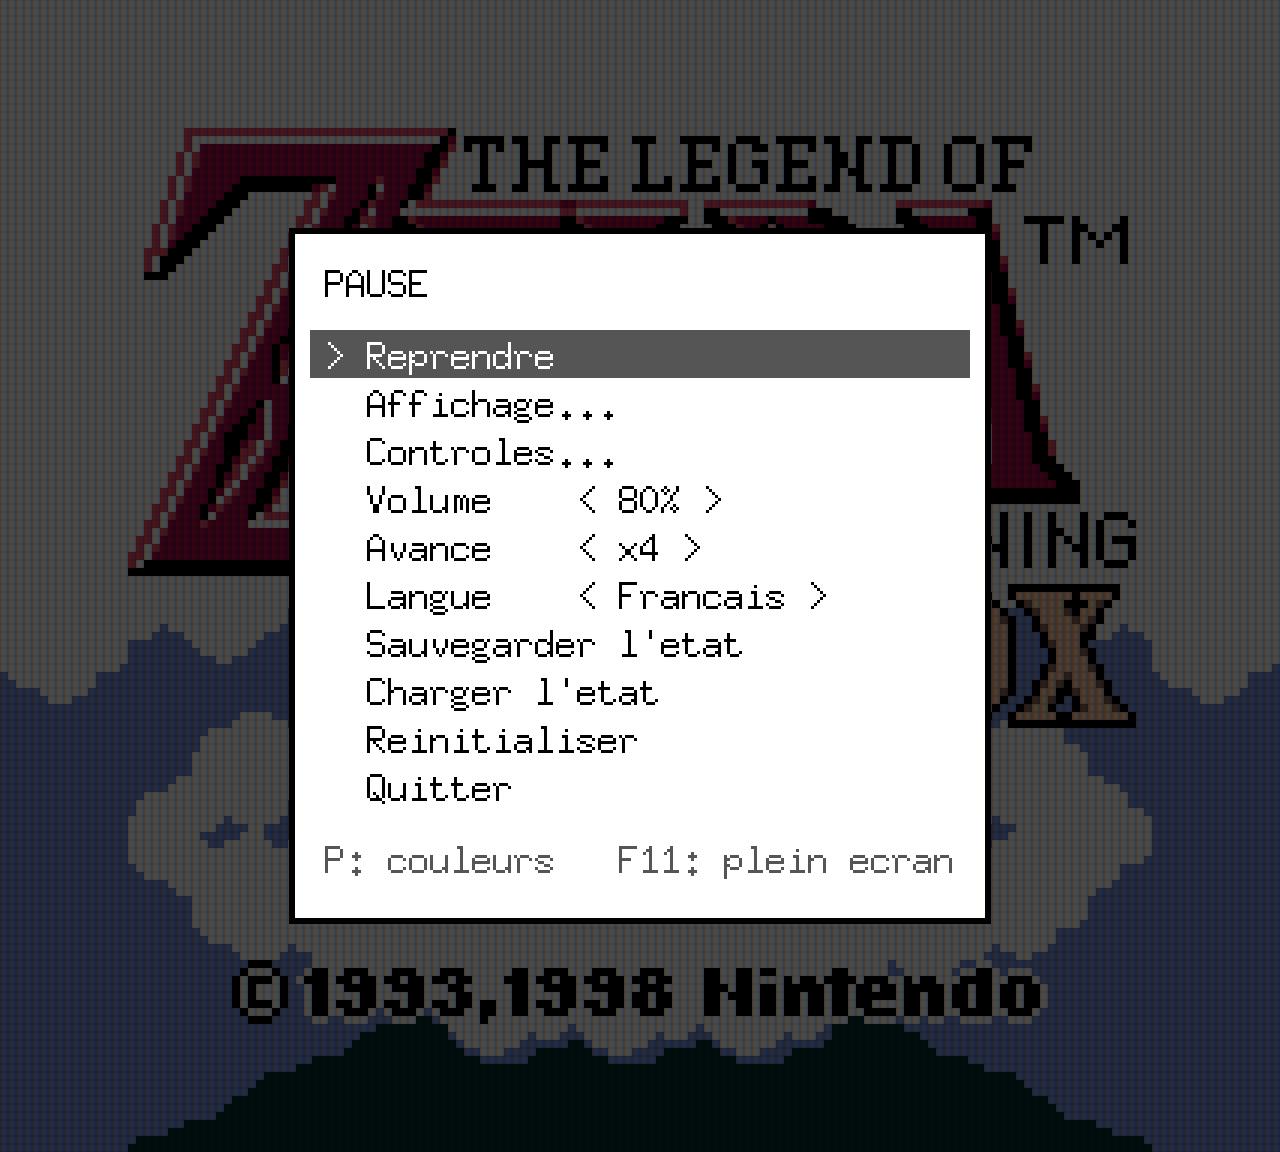
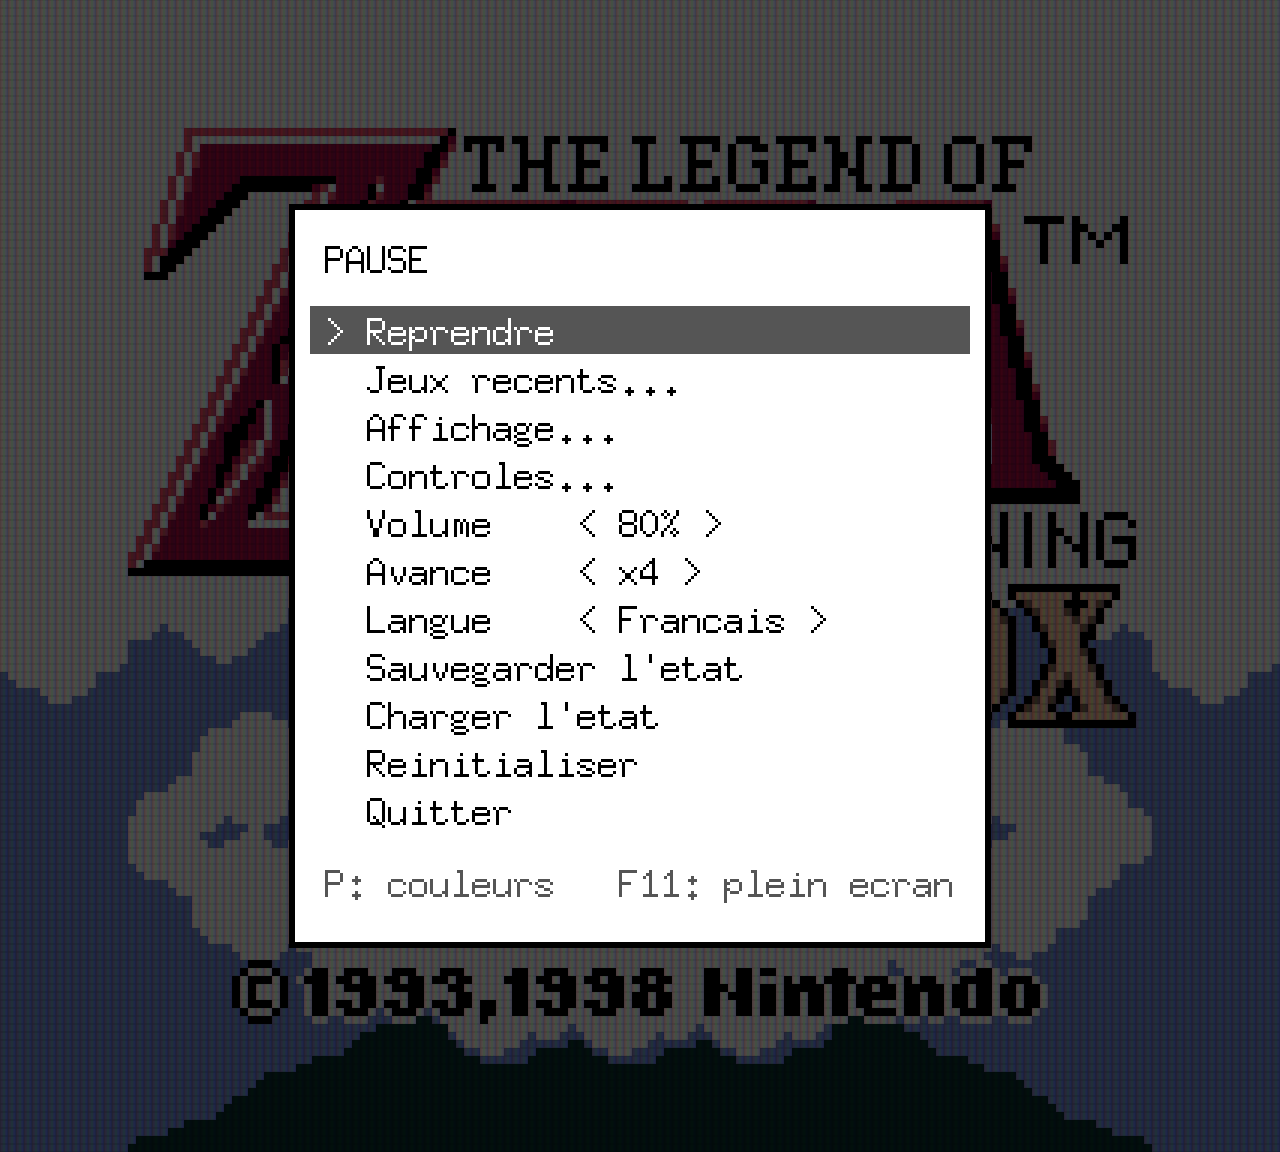
Show the drop screen on the site, retake the Pause menu captures, and capture both in the skill (#53)
* Show the drop screen on the site, and a Controls heading

The quick start of the site now shows the drop screen of gbe launched
without a ROM, with five recent games, captured by gbe itself at the x8
scale like the other screenshots. It is as wide as a column of the
Screenshots section, and centered. A "Contrôles" heading now sets the
keys table apart from the quick start.

* Retake the Pause menu captures, and capture the drop screen in the skill

The Pause menu captures of the site predate the Recent games entry: they
are retaken with the current menu, the entry enabled as for any player
who has played before.

The site-captures skill now also takes the drop screen capture, as done
for the quick start: capture.sh runs the harness with -drop, which opens
gbe without a ROM (ui.CaptureDrop), its recent games being Link's
Awakening DX, Super Mario Land, Tetris DX, Wario Land 3 and Donkey Kong
Country, named by their header titles. SKILL.md lists the seven captures
and where the site shows them, the extra ROMs, what to check, and the
template sizes to update with the scale.

---------

Changed region(s): [[0.2188, 0.1562, 0.7812, 0.7188], [0.2188, 0.7188, 0.7812, 0.8438]]

diff --git a/site/style.css b/site/style.css
@@ -208,6 +208,12 @@ nav a:hover { color: var(--accent); }
 .shots img { display: block; width: 100%; height: auto; border: var(--px) solid var(--line); }
 .shots figcaption { font-size: 13px; color: var(--muted); margin-top: 8px; }
 
+/* Drop screen, in the quick start */
+/* The width of a column of .shots (3 columns, 24px apart), centered. */
+.drop-shot { width: calc((100% - 48px) / 3); margin: 0 auto 24px; }
+.drop-shot img { display: block; width: 100%; height: auto; border: var(--px) solid var(--line); }
+.drop-shot figcaption { font-size: 13px; color: var(--muted); margin-top: 8px; }
+
 /* Downloads */
 .downloads { grid-template-columns: repeat(3, 1fr); }
 .download ul { list-style: none; margin: 0 0 16px; padding: 0; display: grid; gap: 12px; }
@@ -269,6 +275,7 @@ th { font-family: var(--pixel); font-size: 10px; font-weight: 400; border-bottom
   nav { gap: 12px; }
   nav a { font-size: 13px; }
   .features, .shots, .downloads, .lcd-shots { grid-template-columns: 1fr; }
+  .drop-shot { width: 100%; }
   .palettes { grid-template-columns: repeat(2, 1fr); }
   .bezel { padding: 12px 14px 16px; }
   .console-color { margin-top: 24px; }

diff --git a/.claude/skills/site-captures/harness/capture.go b/.claude/skills/site-captures/harness/capture.go
@@ -7,11 +7,13 @@ package ui
 import (
 	"image/png"
 	"os"
+	"path/filepath"
 	"time"
 
 	"github.com/hajimehoshi/ebiten/v2"
 
 	"github.com/ldechoux/gbe/internal/gb"
+	"github.com/ldechoux/gbe/internal/rom"
 )
 
 // CaptureOptions describes one console's captures.
@@ -75,9 +77,57 @@ func Capture(console *gb.GameBoy, opts CaptureOptions) error {
 	cfg.Scale = opts.Scale
 	cfg.Filter = opts.Filter
 	cfg.Language = opts.Language
+	// A game played before: the Recent games entry of the menu is enabled,
+	// as for any player but the very first time.
+	cfg.Recent = []RecentGame{{Path: opts.Dir + "/played.gb", Title: "PLAYED"}}
 	g := &Game{gb: console, cfg: cfg, cfgPath: opts.Dir + "/config.json", title: "capture", shotDir: opts.Dir,
 		lcd: ebiten.NewImage(gb.ScreenWidth, gb.ScreenHeight), stream: &audioStream{},
 		ignoredKeys: map[ebiten.Key]bool{}, ignoredPad: map[padButton]bool{}, pads: &ebitenPads{}, started: true}
 	ebiten.SetWindowSize(gb.ScreenWidth*4, gb.ScreenHeight*4)
 	return ebiten.RunGame(&captureGame{Game: g, opts: opts})
+}
+
+// dropCapture saves the drop screen, shown when gbe runs without a ROM.
+type dropCapture struct {
+	*Game
+	opts CaptureOptions
+}
+
+func (d *dropCapture) Update() error {
+	f, err := os.Create(d.opts.Dir + "/drop_screen.png")
+	if err != nil {
+		return err
+	}
+	defer f.Close()
+	if err := png.Encode(f, d.renderFrame(d.cfg.Scale)); err != nil {
+		return err
+	}
+	return ebiten.Termination
+}
+
+// CaptureDrop saves drop_screen.png in opts.Dir: the drop screen, its recent
+// games being roms (the first one selected), named by their header title
+// as gbe shows them. The palette is the default one; there is no filter
+// without a game.
+func CaptureDrop(roms []string, opts CaptureOptions) error {
+	cfg := DefaultConfig()
+	cfg.Scale = opts.Scale
+	cfg.Language = opts.Language
+	for _, path := range roms {
+		game, err := rom.Open(path, rom.Options{BootROM: "none", Fresh: true})
+		if err != nil {
+			return err
+		}
+		abs, err := filepath.Abs(path)
+		if err != nil {
+			return err
+		}
+		cfg.Recent = append(cfg.Recent, RecentGame{Path: abs, Title: game.Title})
+	}
+	g := &Game{cfg: cfg, cfgPath: opts.Dir + "/config.json", shotDir: opts.Dir,
+		lcd: ebiten.NewImage(gb.ScreenWidth, gb.ScreenHeight), lcdPrev: ebiten.NewImage(gb.ScreenWidth, gb.ScreenHeight),
+		stream: &audioStream{}, ignoredKeys: map[ebiten.Key]bool{}, ignoredPad: map[padButton]bool{},
+		pads: &ebitenPads{}, monitors: &ebitenMonitors{}}
+	ebiten.SetWindowSize(gb.ScreenWidth*4, gb.ScreenHeight*4)
+	return ebiten.RunGame(&dropCapture{Game: g, opts: opts})
 }

diff --git a/.claude/skills/site-captures/harness/main.go b/.claude/skills/site-captures/harness/main.go
@@ -14,6 +14,7 @@ import (
 
 func main() {
 	romPath := flag.String("rom", "", "ROM to run")
+	drop := flag.Bool("drop", false, "capture the drop screen instead, the ROMs given as arguments listed as recent games")
 	model := flag.String("model", "gb", "gb or gbc")
 	var opts ui.CaptureOptions
 	flag.StringVar(&opts.Dir, "out", "", "output directory")
@@ -24,6 +25,12 @@ func main() {
 	flag.StringVar(&opts.Language, "lang", "fr", "user interface language")
 	flag.Parse()
 
+	if *drop {
+		if err := ui.CaptureDrop(flag.Args(), opts); err != nil {
+			log.Fatal(err)
+		}
+		return
+	}
 	rom, err := os.ReadFile(*romPath)
 	if err != nil {
 		log.Fatal(err)

diff --git a/.claude/skills/site-captures/SKILL.md b/.claude/skills/site-captures/SKILL.md
@@ -1,29 +1,37 @@
 ---
 name: site-captures
-description: Refait les six captures de la section « Captures » du site du projet (écran titre, menu Pause et écran de reprise, en Game Boy et en Game Boy Color) avec le rendu de capture de gbe, à l'échelle ×8 et avec le filtre LCD, puis prépare l'aperçu du site. À utiliser quand l'utilisateur demande de refaire, mettre à jour ou régénérer les captures du site (screenshots/gb, screenshots/gbc), par exemple après un changement du menu, d'un filtre ou d'une palette.
+description: Refait les captures du site du projet avec le rendu de capture de gbe, à l'échelle ×8 — les six de la section « Captures » (écran titre, menu Pause et écran de reprise, en Game Boy et en Game Boy Color, filtre LCD) et l'écran de dépôt des ROMs du « Démarrage rapide » — puis prépare l'aperçu du site. À utiliser quand l'utilisateur demande de refaire, mettre à jour ou régénérer les captures du site (screenshots/gb, screenshots/gbc), par exemple après un changement du menu, d'un filtre ou d'une palette.
 ---
 
 # Refaire les captures du site
 
-Les captures de la section « Captures » du site (`site/index.html.tmpl`, `#captures`) sont
-six images de `screenshots/` :
+Le site (`site/index.html.tmpl`) montre sept captures de `screenshots/` :
 
-| Fichier | Scène |
-|---|---|
-| `screenshots/{gb,gbc}/game_title.webp` | L'écran titre du jeu |
-| `screenshots/{gb,gbc}/menu.webp` | Le menu Pause (en français, curseur sur Reprendre) par-dessus l'écran titre |
-| `screenshots/{gb,gbc}/save_state_resume.webp` | L'écran de reprise de partie, au lancement, sur l'écran encore vide |
+| Fichier | Scène | Section du site |
+|---|---|---|
+| `screenshots/{gb,gbc}/game_title.webp` | L'écran titre du jeu | Captures (`#captures`) |
+| `screenshots/{gb,gbc}/menu.webp` | Le menu Pause (en français, curseur sur Reprendre) par-dessus l'écran titre | Captures |
+| `screenshots/{gb,gbc}/save_state_resume.webp` | L'écran de reprise de partie, au lancement, sur l'écran encore vide | Captures |
+| `screenshots/gb/drop_screen.webp` | L'écran de dépôt des ROMs, affiché quand gbe est lancé sans ROM, avec 5 jeux récents | Télécharger, « Démarrage rapide » (`figure.drop-shot`) |
 
 Les jeux sont Super Mario Land (Game Boy, palette DMG vert) et Link's Awakening DX (Game Boy
 Color, couleurs corrigées). Les réglages : échelle ×8 (1280×1152), filtre LCD, interface en
 français. Les images sont produites par `Game.renderFrame`, la fonction du raccourci de
 capture : image filtrée, et menu par-dessus quand il est ouvert.
 
+L'écran de dépôt n'a pas de jeu, donc pas de filtre : il est dans la palette par défaut
+(DMG vert). Ses jeux récents sont, dans l'ordre, Link's Awakening DX (sélectionné), Super
+Mario Land, Tetris DX, Wario Land 3 et Donkey Kong Country. Leurs noms sont les titres lus
+dans l'en-tête des ROMs, comme gbe les affiche : ZELDA, SUPER MARIOLAND, TETRIS DX,
+WARIOLAND3, DK COUNTRY. Éviter Pokémon Pinball, dont l'en-tête donne « POKEMONPINBVPHP »
+(titre suivi du code fabricant), tant que la lecture du titre ne le corrige pas.
+
 ## Prérequis
 
-- Les ROMs, absentes de git : `roms/Super_Mario_Land_World_Rev1.gb` et
-  `roms/Legend_of_Zelda_The_Links_Awakening_DX.gbc`. Si elles manquent, demander à
-  l'utilisateur de les copier ; ne pas les chercher ailleurs.
+- Les ROMs, absentes de git : `roms/Super_Mario_Land_World_Rev1.gb`,
+  `roms/Legend_of_Zelda_The_Links_Awakening_DX.gbc`, et pour les jeux récents de l'écran
+  de dépôt `roms/Tetris_DX.zip`, `roms/Wario_Land_3.zip` et `roms/Donkey_Kong_Country.zip`.
+  Si elles manquent, demander à l'utilisateur de les copier ; ne pas les chercher ailleurs.
 - `go`, `cwebp` et `magick` (ImageMagick), plus Google Chrome pour l'aperçu du site.
 - Une machine avec écran : le harnais ouvre une fenêtre Ebitengine quelques secondes.
 
@@ -51,15 +59,20 @@ git checkout -b feature/site-captures   # ou un nom plus précis
    - l'écran titre : image 200 pour Super Mario Land ; image 900 pour Link's Awakening
      DX, après un appui sur Start à l'image 500 pour passer l'intro ;
    - le menu Pause, ouvert ensuite sur l'écran titre ;
-3. retire le harnais, même en cas d'erreur, puis convertit les PNG en WebP sans perte
+3. lance un `Game` sans ROM (`-drop`, `ui.CaptureDrop`) et enregistre
+   `gb/drop_screen.png`. Les cinq ROMs de la liste `recent` du script sont ouvertes avec
+   `rom.Open` pour lire leur titre, et deviennent les jeux récents, le premier sélectionné ;
+4. retire le harnais, même en cas d'erreur, puis convertit les PNG en WebP sans perte
    (`cwebp -lossless -z 9`) et produit `montage.png`.
 
 `SCALE`, `FILTER` et `UI_LANG` changent l'échelle, le filtre et la langue si l'utilisateur
-le demande ; par défaut ×8, `lcd` et `fr`.
+le demande ; par défaut ×8, `lcd` et `fr`. L'écran de dépôt suit l'échelle et la langue ;
+il ignore le filtre.
 
 Si le harnais ne compile plus, c'est que les champs de `Game` ou de `menu` ont changé :
 adapter `harness/capture.go`, qui utilise `renderFrame`, `menu.show`, `menu.showStart`,
-`started`, `stateTime`, `frame` et la construction de `Game` faite par `ui.Run`. Mettre
+`started`, `stateTime`, `frame`, `Config.Recent`, `rom.Open` et la construction de `Game`
+faite par `ui.Run`. Mettre
 le skill à jour dans le même commit.
 
 Après le script, `git status` ne doit montrer aucun `zz_capture` restant.
@@ -75,9 +88,12 @@ magick <out>/gbc/menu.png -crop 640x400+320+380 +repage <out>/detail.png
 Contrôler :
 - l'écran titre est affiché, et non l'intro ou un écran noir ;
 - le menu est à jour (les entrées actuelles de `internal/ui/menu.go`) et son texte est
-  net : en ×8, il est dessiné en ×3 ;
+  net : en ×8, il est dessiné en ×3. « Jeux recents... » est actif, et non grisé : le
+  harnais donne au menu un jeu récent, comme pour tout joueur qui a déjà joué ;
 - la grille LCD est visible ;
-- l'écran de reprise affiche « PARTIE EN COURS » et la date du jour.
+- l'écran de reprise affiche « PARTIE EN COURS » et la date du jour ;
+- l'écran de dépôt montre la cartouche, l'invitation « Deposez une ROM Game Boy ici » et
+  les cinq jeux récents, ZELDA sélectionné, sans titre tronqué ni code fabricant.
 
 Si l'écran titre de Link's Awakening DX a bougé, par exemple parce que l'émulation a
 changé, trouver la bonne image avec le mode headless :
@@ -95,11 +111,18 @@ Puis ajuster `-title-at` ou `-start-at` dans `capture.sh`.
 for m in gb gbc; do for f in game_title menu save_state_resume; do
   cp <out>/$m/$f.webp screenshots/$m/$f.webp
 done; done
+cp <out>/gb/drop_screen.webp screenshots/gb/drop_screen.webp
 ```
 
-Si l'échelle n'est plus ×8, mettre à jour dans `site/index.html.tmpl` (`#captures`) les
-attributs `width`/`height` des six `<img>` (160×échelle sur 144×échelle) et la phrase
-sous le titre, qui annonce l'échelle, la taille et le filtre. De même si le filtre change.
+Ne copier que les captures que l'utilisateur veut refaire : par exemple seulement
+`drop_screen.webp` après un changement de l'écran de dépôt.
+
+Si l'échelle n'est plus ×8, mettre à jour dans `site/index.html.tmpl` les attributs
+`width`/`height` des sept `<img>` (160×échelle sur 144×échelle) : les six de `#captures`
+et celle de `figure.drop-shot`, dans « Démarrage rapide ». Mettre aussi à jour la phrase
+sous le titre des Captures, qui annonce l'échelle, la taille et le filtre. De même si le
+filtre change. La figure de l'écran de dépôt a la largeur d'une colonne des Captures
+(`.drop-shot` dans `site/style.css`), centrée : ne pas la changer sans en parler.
 
 ### 5. Montrer l'aperçu du site
 
@@ -107,12 +130,12 @@ sous le titre, qui annonce l'échelle, la taille et le filtre. De même si le fi
 gh api -H "Accept: application/vnd.github.html+json" repos/ldechoux/gbe/releases > <scratchpad>/releases.json
 go run ./tools/sitegen -releases <scratchpad>/releases.json -out <scratchpad>/www
 "/Applications/Google Chrome.app/Contents/MacOS/Google Chrome" --headless=new --disable-gpu \
-  --hide-scrollbars --force-device-scale-factor=1 --window-size=1280,7600 \
+  --hide-scrollbars --force-device-scale-factor=1 --window-size=1280,16000 \
   --virtual-time-budget=5000 --screenshot=<scratchpad>/page.png "file://<scratchpad>/www/index.html"
 ```
 
-Recadrer `page.png` autour de la section Captures pour la vérifier : cadres, légendes
-sous les images, rien de décalé. Puis ouvrir `<scratchpad>/www/index.html` dans le
+Recadrer `page.png` autour de la section Captures, et du « Démarrage rapide » pour
+l'écran de dépôt, pour les vérifier : cadres, légendes sous les images, rien de décalé. Puis ouvrir `<scratchpad>/www/index.html` dans le
 navigateur de l'utilisateur avec `open`.
 
 ### 6. Attendre la validation, puis faire la PR
